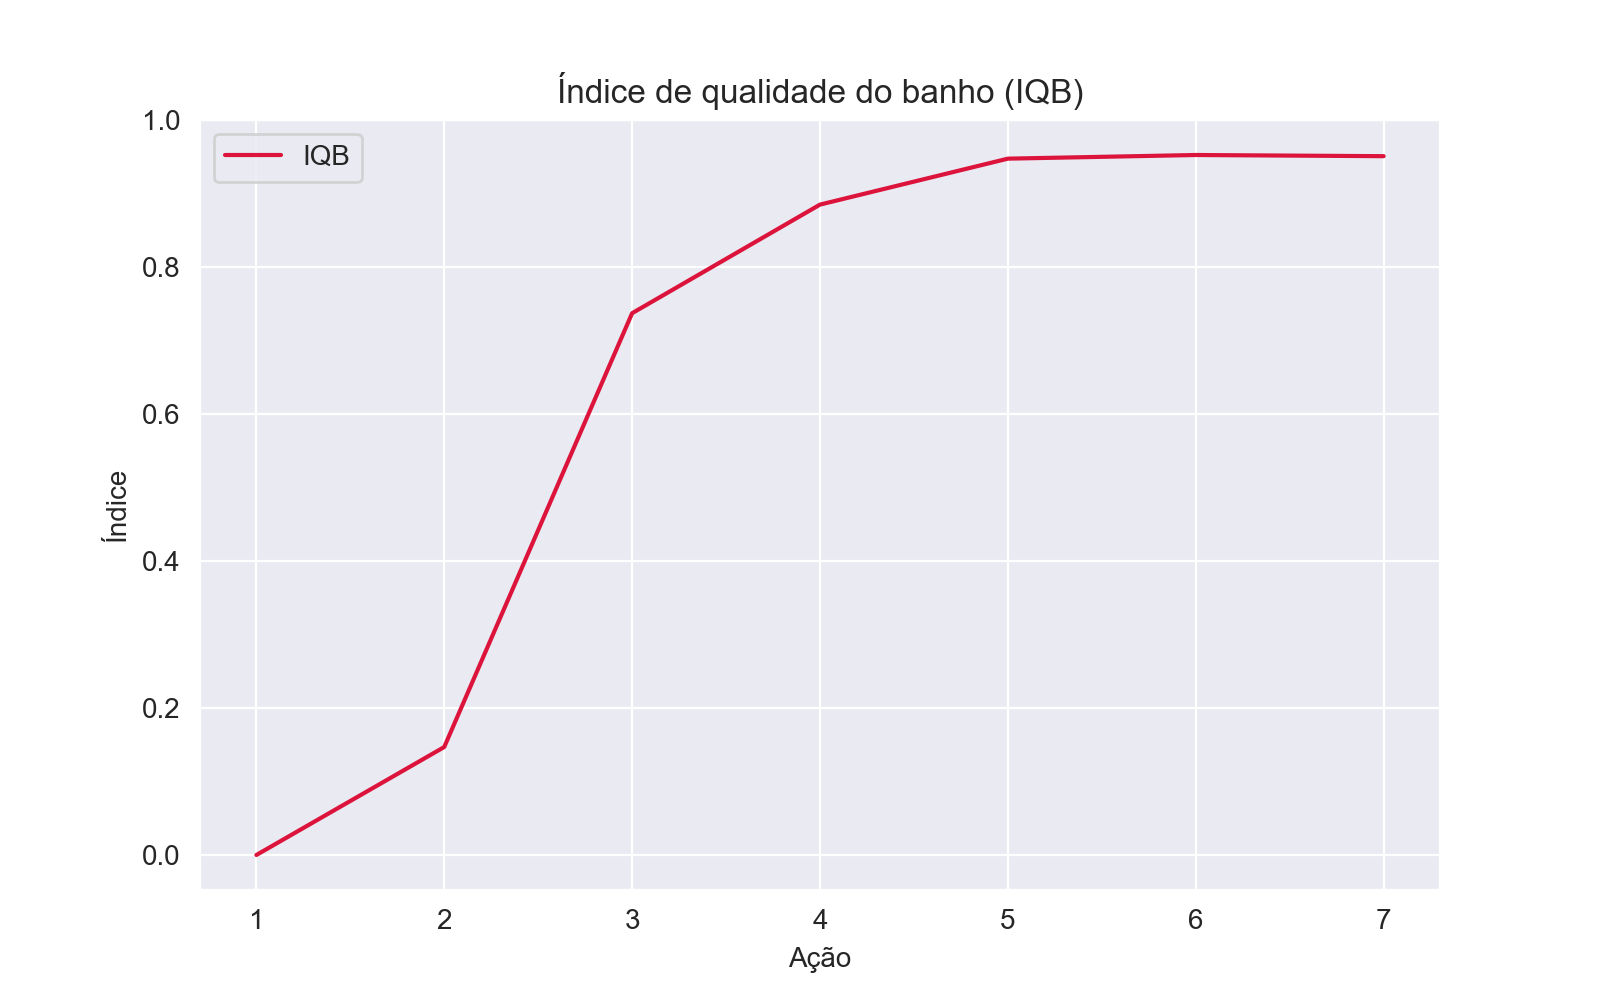
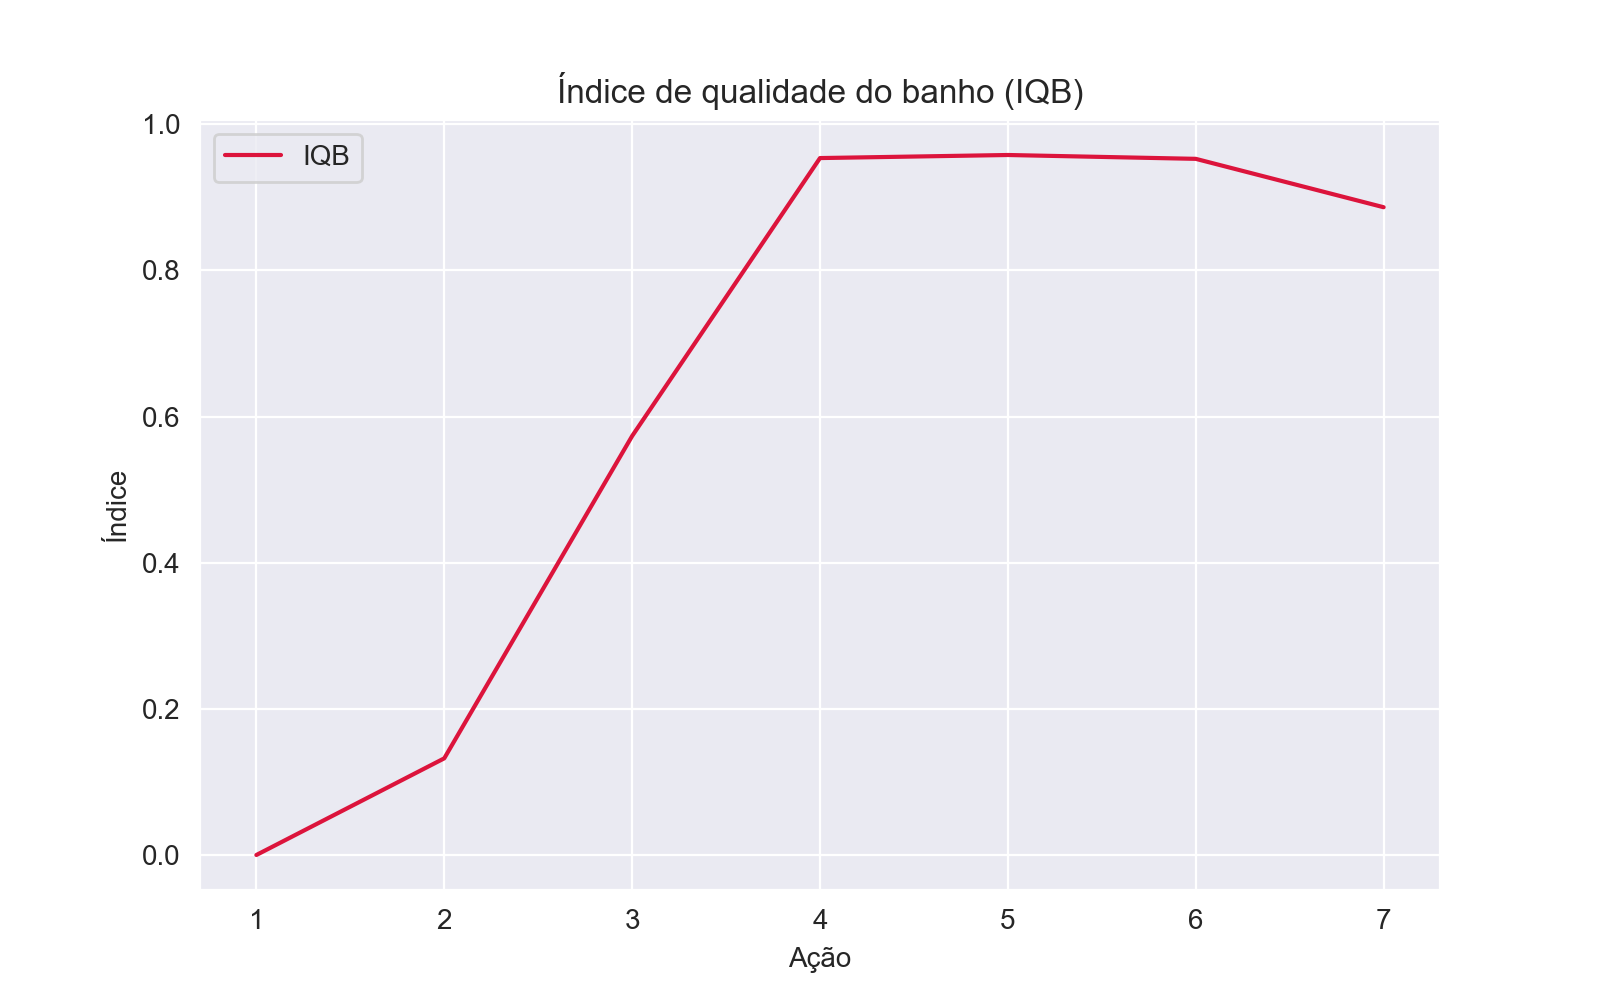
More results

diff --git a/treina_agente.py b/treina_agente.py
@@ -80,8 +80,10 @@ class ShowerEnv(gym.Env):
     def reset(self):
         
         # Temperatura ambiente e custo da energia elétrica em kWh:
-        self.Tinf = random.choice(self.Tinf_list)
-        self.custo_eletrico_kwh = random.choice(self.custo_eletrico_kwh_list)
+        # self.Tinf = random.choice(self.Tinf_list)
+        # self.custo_eletrico_kwh = random.choice(self.custo_eletrico_kwh_list)
+        self.Tinf = 15
+        self.custo_eletrico_kwh = 2.25
 
         # Distúrbios Fd e Td, temperatura da corrente fria Tf:
         self.Fd = 0
@@ -570,7 +572,7 @@ Tinf_list = [15, 16, 17, 18, 19, 20, 21, 22, 23, 24, 25, 26, 27, 28, 29, 30]
 custo_eletrico_kwh_list = [1, 1.25, 1.5, 1.75, 2, 2.25]
 
 # Treina e avalia o agente:
-treina = True
+treina = False
 avalia = True
 
 if treina:
